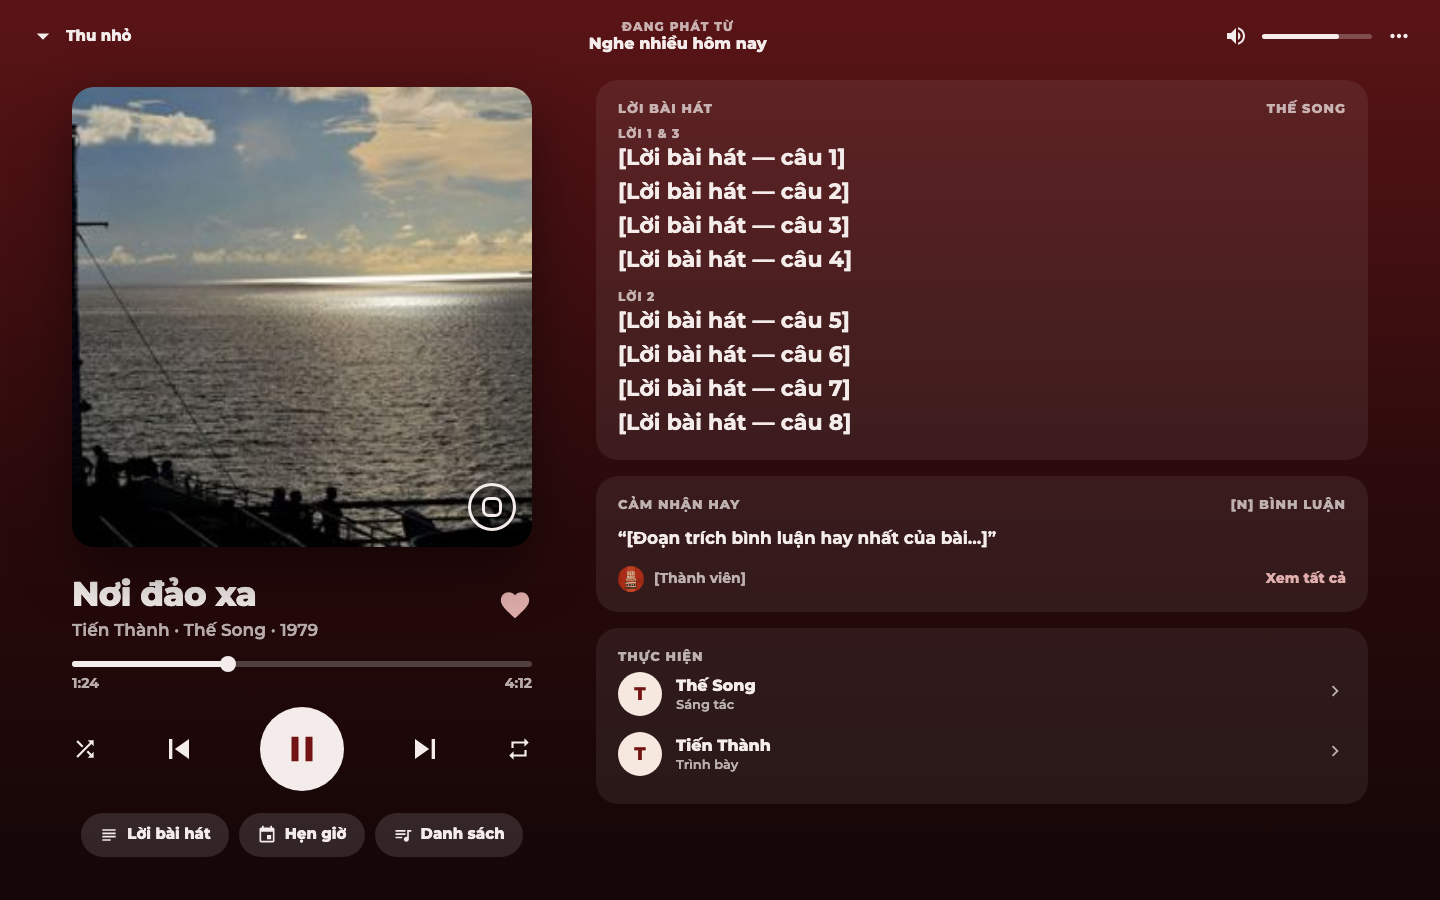
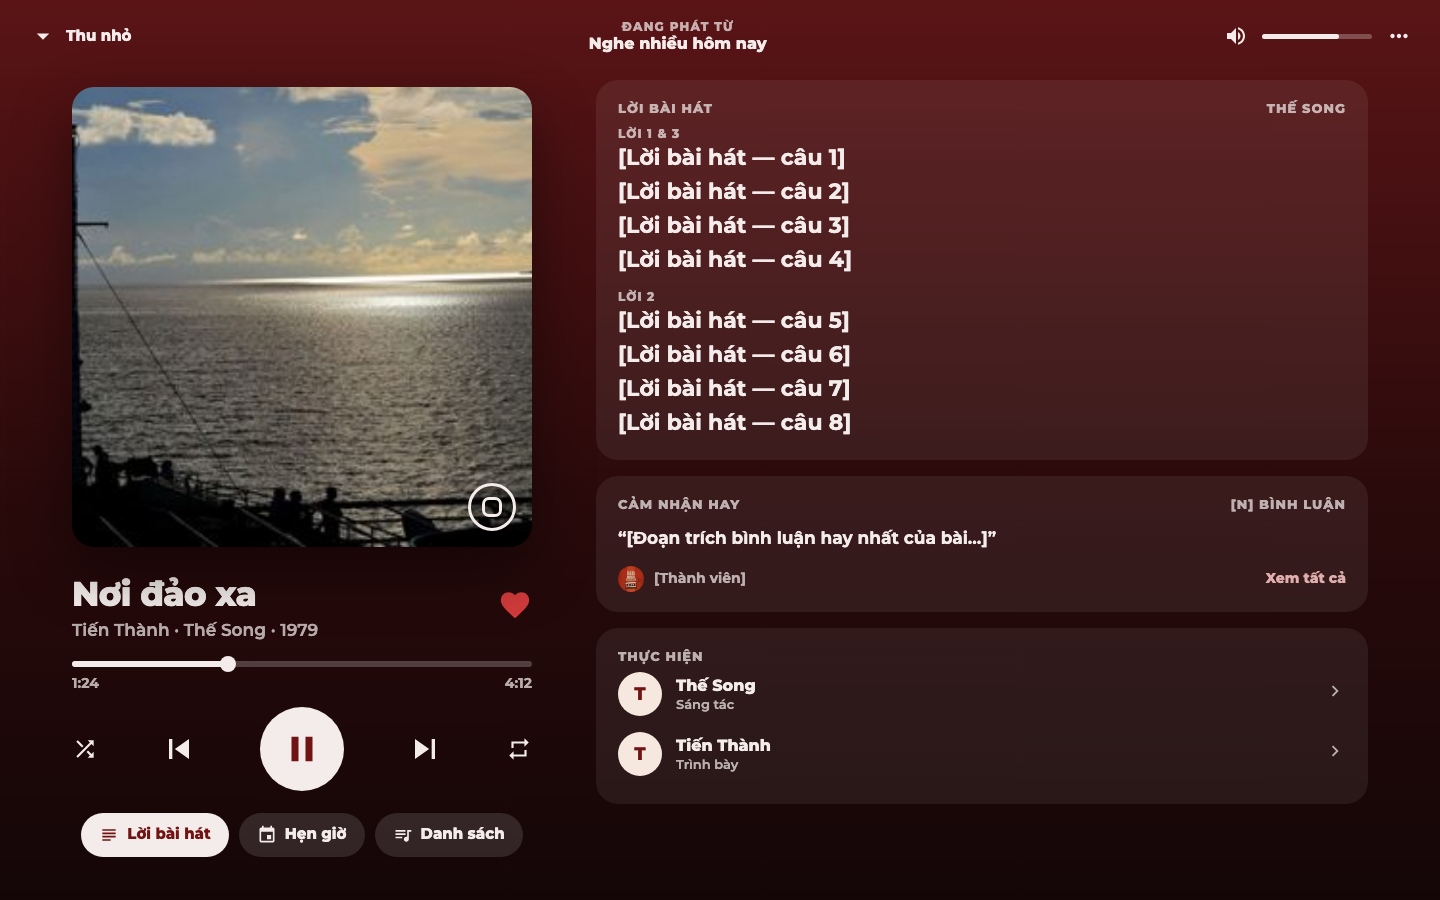
design(canvas): trình phát toàn màn desktop — Lời tắt (mặc định) / Lời bật

Changed region(s): [[0.0312, 0.9022, 0.1562, 0.9644], [0.3438, 0.6533, 0.375, 0.6844]]

diff --git a/design/canvas/project/Desktop_DangPhat.dc.html b/design/canvas/project/Desktop_DangPhat.dc.html
@@ -2,7 +2,7 @@
 <html lang="vi">
 <head>
 <meta charset="utf-8">
-<title>Desktop · Đang phát toàn màn (theo trình phát mobile)</title>
+<title>Desktop · Đang phát toàn màn — Lời bật</title>
 <script src="./support.js"></script>
 </head>
 <body>
@@ -11,7 +11,7 @@
 <link href="https://fonts.googleapis.com/css2?family=Montserrat:wght@500;600;700;800&amp;display=swap" rel="stylesheet">
 <style>body{margin:0}a{color:#8E1F1F;text-decoration:none}</style>
 </helmet>
-<!-- Đang phát toàn màn theo trình phát mobile -->
+<!-- Đang phát toàn màn — LỜI BẬT: bấm "Lời bài hát" (nút sáng = đang bật) → cột phải hiện Lời · Cảm nhận hay · Thực hiện. Bấm lần nữa → về bản Lời tắt (mặc định) -->
 <div style="width: 1440px; height: 900px; background: #0E0A0A; font-family: Montserrat, sans-serif; line-height: 1.25; color: #161112; display: flex; flex-direction: column; overflow: hidden; position: relative">
 <svg width="0" height="0" aria-hidden="true" style="position: absolute"><filter id="brandTint" color-interpolation-filters="sRGB"><feColorMatrix type="matrix" values="0.1667 0.5609 0.0566 0 0.1804  0.1868 0.6283 0.0634 0 0.0314  0.1767 0.5946 0.0600 0 0.0392  0 0 0 1 0"></feColorMatrix></filter></svg>
 <!-- Đồng bộ trình phát mobile (board "Trình phát"): nền gradient đỏ rượu, ảnh vuông có huy hiệu cassette, tên + tim, dòng "nghệ sĩ · nhạc sĩ · năm", thanh thời gian, cụm điều khiển nút phát tròn trắng, 3 nút chữ Lời bài hát · Hẹn giờ · Danh sách. Desktop: các thẻ (Lời · Cảm nhận hay · Thực hiện) nằm cột phải, cuộn riêng, thay vì dưới màn. Bỏ "đĩa than" -->
@@ -20,11 +20,11 @@
 <div style="position: relative; flex: 1; min-height: 0; display: flex; gap: 64px; padding: 8px 72px 36px">
 <div style="width: 460px; flex-shrink: 0; display: flex; flex-direction: column; justify-content: center">
 <span style="position: relative; display: block"><img src="/_blob/15d021a625e44f0e9ff37aae395a5ec2" alt="" style="width: 460px; height: 460px; border-radius: 22px; object-fit: cover; display: block; box-shadow: 0 24px 60px rgba(0,0,0,0.45)"><span style="position: absolute; right: 16px; bottom: 16px; width: 48px; height: 48px; border-radius: 24px; background: rgba(0,0,0,0.35); border: 3px solid #F3ECEA; box-sizing: border-box; display: flex; align-items: center; justify-content: center"><span style="width: 14px; height: 14px; border-radius: 7px; border: 3px solid #F3ECEA"></span></span></span>
-<div style="margin-top: 26px; display: flex; align-items: center"><div style="flex: 1"><div style="font-size: 34px; font-weight: 800; letter-spacing: -0.6px; color: #F3ECEA">Nơi đảo xa</div><div style="margin-top: 4px; font-size: 17px; font-weight: 600; color: rgba(243,236,234,0.72)">Tiến Thành · Thế Song · 1979</div></div><span style="color: #E0AEAC"><svg width="34" height="34" viewBox="0 0 24 24" fill="currentColor" aria-hidden="true" style="flex-shrink: 0"><path d="M12 21.35l-1.45-1.32C5.4 15.36 2 12.28 2 8.5 2 5.42 4.42 3 7.5 3c1.74 0 3.41.81 4.5 2.09C13.09 3.81 14.76 3 16.5 3 19.58 3 22 5.42 22 8.5c0 3.78-3.4 6.86-8.55 11.54L12 21.35z"></path></svg></span></div>
+<div style="margin-top: 26px; display: flex; align-items: center"><div style="flex: 1"><div style="font-size: 34px; font-weight: 800; letter-spacing: -0.6px; color: #F3ECEA">Nơi đảo xa</div><div style="margin-top: 4px; font-size: 17px; font-weight: 600; color: rgba(243,236,234,0.72)">Tiến Thành · Thế Song · 1979</div></div><span style="color: #D23B3B"><svg width="34" height="34" viewBox="0 0 24 24" fill="currentColor" aria-hidden="true" style="flex-shrink: 0"><path d="M12 21.35l-1.45-1.32C5.4 15.36 2 12.28 2 8.5 2 5.42 4.42 3 7.5 3c1.74 0 3.41.81 4.5 2.09C13.09 3.81 14.76 3 16.5 3 19.58 3 22 5.42 22 8.5c0 3.78-3.4 6.86-8.55 11.54L12 21.35z"></path></svg></span></div>
 <div style="margin-top: 20px; height: 6px; border-radius: 3px; background: rgba(255,255,255,0.22); position: relative"><span style="position: absolute; left: 0; top: 0; bottom: 0; width: 34%; border-radius: 3px; background: #F3ECEA"></span><span style="position: absolute; left: calc(34% - 8px); top: -5px; width: 16px; height: 16px; border-radius: 8px; background: #F3ECEA"></span></div>
 <div style="margin-top: 8px; display: flex; justify-content: space-between; font-size: 14px; font-weight: 700; color: rgba(243,236,234,0.72)"><span>1:24</span><span>4:12</span></div>
 <div style="margin-top: 14px; display: flex; align-items: center; justify-content: space-between; color: #F3ECEA"><svg width="26" height="26" viewBox="0 0 24 24" fill="currentColor" aria-hidden="true" style="flex-shrink: 0"><path d="M10.59 9.17L5.41 4 4 5.41l5.17 5.17 1.42-1.41zM14.5 4l2.04 2.04L4 18.59 5.41 20 17.96 7.46 20 9.5V4h-5.5zm.33 9.41l-1.41 1.41 3.13 3.13L14.5 20H20v-5.5l-2.04 2.04-3.13-3.13z"></path></svg><svg width="40" height="40" viewBox="0 0 24 24" fill="currentColor" aria-hidden="true" style="flex-shrink: 0"><path d="M6 6h2v12H6zm3.5 6l8.5 6V6z"></path></svg><span style="width: 84px; height: 84px; border-radius: 42px; background: #F3ECEA; display: flex; align-items: center; justify-content: center"><svg width="42" height="42" viewBox="0 0 24 24" fill="#711313" aria-hidden="true" style="flex-shrink: 0"><path d="M6 19h4V5H6v14zm8-14v14h4V5h-4z"></path></svg></span><svg width="40" height="40" viewBox="0 0 24 24" fill="currentColor" aria-hidden="true" style="flex-shrink: 0"><path d="M6 18l8.5-6L6 6v12zM16 6v12h2V6h-2z"></path></svg><svg width="26" height="26" viewBox="0 0 24 24" fill="currentColor" aria-hidden="true" style="flex-shrink: 0"><path d="M7 7h10v3l4-4-4-4v3H5v6h2V7zm10 10H7v-3l-4 4 4 4v-3h12v-6h-2v4z"></path></svg></div>
-<div style="margin-top: 22px; display: flex; justify-content: center; gap: 10px"><span style="height: 44px; padding: 0 18px; border-radius: 22px; background: rgba(255,255,255,0.12); color: #F3ECEA; display: inline-flex; align-items: center; gap: 8px; font-size: 15px; font-weight: 800"><svg width="20" height="20" viewBox="0 0 24 24" fill="currentColor" aria-hidden="true" style="flex-shrink: 0"><path d="M14 17H4v2h10v-2zm6-8H4v2h16V9zM4 15h16v-2H4v2zM4 5v2h16V5H4z"></path></svg>Lời bài hát</span><span style="height: 44px; padding: 0 18px; border-radius: 22px; background: rgba(255,255,255,0.12); color: #F3ECEA; display: inline-flex; align-items: center; gap: 8px; font-size: 15px; font-weight: 800"><svg width="20" height="20" viewBox="0 0 24 24" fill="currentColor" aria-hidden="true" style="flex-shrink: 0"><path d="M17 12h-5v5h5v-5zM16 1v2H8V1H6v2H5c-1.11 0-1.99.9-1.99 2L3 19c0 1.1.89 2 2 2h14c1.1 0 2-.9 2-2V5c0-1.1-.9-2-2-2h-1V1h-2zm3 18H5V8h14v11z"></path></svg>Hẹn giờ</span><span style="height: 44px; padding: 0 18px; border-radius: 22px; background: rgba(255,255,255,0.12); color: #F3ECEA; display: inline-flex; align-items: center; gap: 8px; font-size: 15px; font-weight: 800"><svg width="20" height="20" viewBox="0 0 24 24" fill="currentColor" aria-hidden="true" style="flex-shrink: 0"><path d="M15 6H3v2h12V6zm0 4H3v2h12v-2zM3 16h8v-2H3v2zM17 6v8.18c-.31-.11-.65-.18-1-.18-1.66 0-3 1.34-3 3s1.34 3 3 3 3-1.34 3-3V8h3V6h-5z"></path></svg>Danh sách</span></div></div>
+<div style="margin-top: 22px; display: flex; justify-content: center; gap: 10px"><span style="height: 44px; padding: 0 18px; border-radius: 22px; background: #F3ECEA; color: #711313; display: inline-flex; align-items: center; gap: 8px; font-size: 15px; font-weight: 800"><svg width="20" height="20" viewBox="0 0 24 24" fill="currentColor" aria-hidden="true" style="flex-shrink: 0"><path d="M14 17H4v2h10v-2zm6-8H4v2h16V9zM4 15h16v-2H4v2zM4 5v2h16V5H4z"></path></svg>Lời bài hát</span><span style="height: 44px; padding: 0 18px; border-radius: 22px; background: rgba(255,255,255,0.12); color: #F3ECEA; display: inline-flex; align-items: center; gap: 8px; font-size: 15px; font-weight: 800"><svg width="20" height="20" viewBox="0 0 24 24" fill="currentColor" aria-hidden="true" style="flex-shrink: 0"><path d="M17 12h-5v5h5v-5zM16 1v2H8V1H6v2H5c-1.11 0-1.99.9-1.99 2L3 19c0 1.1.89 2 2 2h14c1.1 0 2-.9 2-2V5c0-1.1-.9-2-2-2h-1V1h-2zm3 18H5V8h14v11z"></path></svg>Hẹn giờ</span><span style="height: 44px; padding: 0 18px; border-radius: 22px; background: rgba(255,255,255,0.12); color: #F3ECEA; display: inline-flex; align-items: center; gap: 8px; font-size: 15px; font-weight: 800"><svg width="20" height="20" viewBox="0 0 24 24" fill="currentColor" aria-hidden="true" style="flex-shrink: 0"><path d="M15 6H3v2h12V6zm0 4H3v2h12v-2zM3 16h8v-2H3v2zM17 6v8.18c-.31-.11-.65-.18-1-.18-1.66 0-3 1.34-3 3s1.34 3 3 3 3-1.34 3-3V8h3V6h-5z"></path></svg>Danh sách</span></div></div>
 <div style="flex: 1; min-width: 0; display: flex; flex-direction: column; gap: 16px; overflow: hidden">
 <div style="border-radius: 22px; background: rgba(255,255,255,0.07); padding: 20px 22px"><div style="display: flex; justify-content: space-between; font-size: 13px; font-weight: 800; letter-spacing: 1px; color: rgba(243,236,234,0.72)"><span>LỜI BÀI HÁT</span><span>THẾ SONG</span></div><div style="margin-top: 10px; font-size: 12px; font-weight: 800; letter-spacing: 1px; color: rgba(243,236,234,0.72)">LỜI 1 & 3</div><div style="font-size: 22px; line-height: 34px; font-weight: 700; color: #F3ECEA">[Lời bài hát — câu 1]</div><div style="font-size: 22px; line-height: 34px; font-weight: 700; color: #F3ECEA">[Lời bài hát — câu 2]</div><div style="font-size: 22px; line-height: 34px; font-weight: 700; color: #F3ECEA">[Lời bài hát — câu 3]</div><div style="font-size: 22px; line-height: 34px; font-weight: 700; color: #F3ECEA">[Lời bài hát — câu 4]</div><div style="margin-top: 12px; font-size: 12px; font-weight: 800; letter-spacing: 1px; color: rgba(243,236,234,0.72)">LỜI 2</div><div style="font-size: 22px; line-height: 34px; font-weight: 700; color: #F3ECEA">[Lời bài hát — câu 5]</div><div style="font-size: 22px; line-height: 34px; font-weight: 700; color: #F3ECEA">[Lời bài hát — câu 6]</div><div style="font-size: 22px; line-height: 34px; font-weight: 700; color: #F3ECEA">[Lời bài hát — câu 7]</div><div style="font-size: 22px; line-height: 34px; font-weight: 700; color: #F3ECEA">[Lời bài hát — câu 8]</div></div>
 <div style="border-radius: 22px; background: rgba(255,255,255,0.07); padding: 20px 22px"><div style="display: flex; justify-content: space-between; font-size: 13px; font-weight: 800; letter-spacing: 1px; color: rgba(243,236,234,0.72)"><span>CẢM NHẬN HAY</span><span>[N] BÌNH LUẬN</span></div><div style="margin-top: 12px; font-size: 17px; line-height: 27px; font-weight: 700; color: #F3ECEA">“[Đoạn trích bình luận hay nhất của bài…]”</div><div style="margin-top: 14px; display: flex; align-items: center; gap: 10px; font-size: 14px; font-weight: 700; color: rgba(243,236,234,0.72)"><img src="/_blob/82eaabf5353f0932631acc5c429f9aef" alt="" style="width: 26px; height: 26px; border-radius: 13px; object-fit: cover"><span style="flex: 1">[Thành viên]</span><span style="color: #E0AEAC; font-weight: 800">Xem tất cả</span></div></div>

diff --git a/design/canvas/project/Desktop_DangPhat_LoiTat.dc.html b/design/canvas/project/Desktop_DangPhat_LoiTat.dc.html
@@ -1,0 +1,37 @@
+<!doctype html>
+<html lang="vi">
+<head>
+<meta charset="utf-8">
+<title>Desktop · Đang phát toàn màn — Lời tắt (mặc định)</title>
+<script src="./support.js"></script>
+</head>
+<body>
+<x-dc>
+<helmet>
+<link href="https://fonts.googleapis.com/css2?family=Montserrat:wght@500;600;700;800&amp;display=swap" rel="stylesheet">
+<style>body{margin:0}a{color:#8E1F1F;text-decoration:none}</style>
+</helmet>
+<!-- Đang phát toàn màn — LỜI TẮT (mặc định khi mở): không cột phải; ảnh, tên, thanh thời gian và cụm điều khiển căn giữa, thanh thời gian chạy hết bề ngang (cách mép 120). Nút "Lời bài hát" mờ = đang tắt; bấm → bản Lời bật (cột phải như cũ) -->
+<div style="width: 1440px; height: 900px; background: #0E0A0A; font-family: Montserrat, sans-serif; line-height: 1.25; color: #161112; display: flex; flex-direction: column; overflow: hidden; position: relative">
+<svg width="0" height="0" aria-hidden="true" style="position: absolute"><filter id="brandTint" color-interpolation-filters="sRGB"><feColorMatrix type="matrix" values="0.1667 0.5609 0.0566 0 0.1804  0.1868 0.6283 0.0634 0 0.0314  0.1767 0.5946 0.0600 0 0.0392  0 0 0 1 0"></feColorMatrix></filter></svg>
+<!-- Đồng bộ trình phát mobile (board "Trình phát"): nền gradient đỏ rượu, ảnh vuông có huy hiệu cassette, tên + tim, dòng "nghệ sĩ · nhạc sĩ · năm", thanh thời gian, cụm điều khiển nút phát tròn trắng, 3 nút chữ Lời bài hát · Hẹn giờ · Danh sách. Desktop: các thẻ (Lời · Cảm nhận hay · Thực hiện) nằm cột phải, cuộn riêng, thay vì dưới màn. Bỏ "đĩa than" -->
+<div style="position: absolute; inset: 0; background: linear-gradient(180deg, #5A1416 0%, #2A0A0B 55%, #140607 100%)"></div>
+<div style="position: relative; height: 72px; padding: 0 28px; display: flex; align-items: center; color: #F3ECEA"><span style="display: flex; align-items: center; gap: 8px; font-size: 15px; font-weight: 800"><svg width="30" height="30" viewBox="0 0 24 24" fill="currentColor" aria-hidden="true" style="flex-shrink: 0"><path d="M7 10l5 5 5-5z"></path></svg>Thu nhỏ</span><span style="flex: 1; text-align: center; display: flex; flex-direction: column"><span style="font-size: 12px; font-weight: 800; letter-spacing: 1.2px; color: rgba(243,236,234,0.72)">ĐANG PHÁT TỪ</span><span style="font-size: 16px; font-weight: 800">Nghe nhiều hôm nay</span></span><span style="display: flex; align-items: center; gap: 14px"><svg width="24" height="24" viewBox="0 0 24 24" fill="currentColor" aria-hidden="true" style="flex-shrink: 0"><path d="M3 9v6h4l5 5V4L7 9H3zm13.5 3c0-1.77-1.02-3.29-2.5-4.03v8.05c1.48-.73 2.5-2.25 2.5-4.02zM14 3.23v2.06c2.89.86 5 3.54 5 6.71s-2.11 5.85-5 6.71v2.06c4.01-.91 7-4.49 7-8.77s-2.99-7.86-7-8.77z"></path></svg><span style="width: 110px; height: 5px; border-radius: 3px; background: rgba(255,255,255,0.25); position: relative"><span style="position: absolute; left: 0; top: 0; bottom: 0; width: 70%; border-radius: 3px; background: #F3ECEA"></span></span><svg width="26" height="26" viewBox="0 0 24 24" fill="currentColor" aria-hidden="true" style="flex-shrink: 0"><path d="M6 10c-1.1 0-2 .9-2 2s.9 2 2 2 2-.9 2-2-.9-2-2-2zm12 0c-1.1 0-2 .9-2 2s.9 2 2 2 2-.9 2-2-.9-2-2-2zm-6 0c-1.1 0-2 .9-2 2s.9 2 2 2 2-.9 2-2-.9-2-2-2z"></path></svg></span></div>
+<div style="position: relative; flex: 1; min-height: 0; display: flex; flex-direction: column; align-items: center; justify-content: center; padding: 0 120px 36px">
+<span style="width: 420px"><span style="position: relative; display: block"><img src="/_blob/15d021a625e44f0e9ff37aae395a5ec2" alt="" style="width: 420px; height: 420px; border-radius: 22px; object-fit: cover; display: block; box-shadow: 0 24px 60px rgba(0,0,0,0.45)"><span style="position: absolute; right: 16px; bottom: 16px; width: 48px; height: 48px; border-radius: 24px; background: rgba(0,0,0,0.35); border: 3px solid #F3ECEA; box-sizing: border-box; display: flex; align-items: center; justify-content: center"><span style="width: 14px; height: 14px; border-radius: 7px; border: 3px solid #F3ECEA"></span></span></span></span>
+<div style="margin-top: 24px; width: 100%; display: flex; align-items: center; gap: 16px"><span style="width: 34px"></span><div style="flex: 1; text-align: center"><div style="font-size: 34px; font-weight: 800; letter-spacing: -0.6px; color: #F3ECEA">Nơi đảo xa</div><div style="margin-top: 4px; font-size: 17px; font-weight: 600; color: rgba(243,236,234,0.72)">Tiến Thành · Thế Song · 1979</div></div><span style="color: #D23B3B"><svg width="34" height="34" viewBox="0 0 24 24" fill="currentColor" aria-hidden="true" style="flex-shrink: 0"><path d="M12 21.35l-1.45-1.32C5.4 15.36 2 12.28 2 8.5 2 5.42 4.42 3 7.5 3c1.74 0 3.41.81 4.5 2.09C13.09 3.81 14.76 3 16.5 3 19.58 3 22 5.42 22 8.5c0 3.78-3.4 6.86-8.55 11.54L12 21.35z"></path></svg></span></div>
+<div style="width: 100%"><div style="margin-top: 20px; height: 6px; border-radius: 3px; background: rgba(255,255,255,0.22); position: relative"><span style="position: absolute; left: 0; top: 0; bottom: 0; width: 34%; border-radius: 3px; background: #F3ECEA"></span><span style="position: absolute; left: calc(34% - 8px); top: -5px; width: 16px; height: 16px; border-radius: 8px; background: #F3ECEA"></span></div><div style="margin-top: 8px; display: flex; justify-content: space-between; font-size: 14px; font-weight: 700; color: rgba(243,236,234,0.72)"><span>1:24</span><span>4:12</span></div></div>
+<div style="width: 100%"><div style="margin-top: 14px; display: flex; align-items: center; justify-content: center; gap: 56px; color: #F3ECEA"><svg width="26" height="26" viewBox="0 0 24 24" fill="currentColor" aria-hidden="true" style="flex-shrink: 0"><path d="M10.59 9.17L5.41 4 4 5.41l5.17 5.17 1.42-1.41zM14.5 4l2.04 2.04L4 18.59 5.41 20 17.96 7.46 20 9.5V4h-5.5zm.33 9.41l-1.41 1.41 3.13 3.13L14.5 20H20v-5.5l-2.04 2.04-3.13-3.13z"></path></svg><svg width="40" height="40" viewBox="0 0 24 24" fill="currentColor" aria-hidden="true" style="flex-shrink: 0"><path d="M6 6h2v12H6zm3.5 6l8.5 6V6z"></path></svg><span style="width: 84px; height: 84px; border-radius: 42px; background: #F3ECEA; display: flex; align-items: center; justify-content: center"><svg width="42" height="42" viewBox="0 0 24 24" fill="#711313" aria-hidden="true" style="flex-shrink: 0"><path d="M6 19h4V5H6v14zm8-14v14h4V5h-4z"></path></svg></span><svg width="40" height="40" viewBox="0 0 24 24" fill="currentColor" aria-hidden="true" style="flex-shrink: 0"><path d="M6 18l8.5-6L6 6v12zM16 6v12h2V6h-2z"></path></svg><svg width="26" height="26" viewBox="0 0 24 24" fill="currentColor" aria-hidden="true" style="flex-shrink: 0"><path d="M7 7h10v3l4-4-4-4v3H5v6h2V7zm10 10H7v-3l-4 4 4 4v-3h12v-6h-2v4z"></path></svg></div></div>
+<div style="margin-top: 22px; display: flex; justify-content: center; gap: 10px"><span style="height: 44px; padding: 0 18px; border-radius: 22px; background: rgba(255,255,255,0.12); color: #F3ECEA; display: inline-flex; align-items: center; gap: 8px; font-size: 15px; font-weight: 800"><svg width="20" height="20" viewBox="0 0 24 24" fill="currentColor" aria-hidden="true" style="flex-shrink: 0"><path d="M14 17H4v2h10v-2zm6-8H4v2h16V9zM4 15h16v-2H4v2zM4 5v2h16V5H4z"></path></svg>Lời bài hát</span><span style="height: 44px; padding: 0 18px; border-radius: 22px; background: rgba(255,255,255,0.12); color: #F3ECEA; display: inline-flex; align-items: center; gap: 8px; font-size: 15px; font-weight: 800"><svg width="20" height="20" viewBox="0 0 24 24" fill="currentColor" aria-hidden="true" style="flex-shrink: 0"><path d="M17 12h-5v5h5v-5zM16 1v2H8V1H6v2H5c-1.11 0-1.99.9-1.99 2L3 19c0 1.1.89 2 2 2h14c1.1 0 2-.9 2-2V5c0-1.1-.9-2-2-2h-1V1h-2zm3 18H5V8h14v11z"></path></svg>Hẹn giờ</span><span style="height: 44px; padding: 0 18px; border-radius: 22px; background: rgba(255,255,255,0.12); color: #F3ECEA; display: inline-flex; align-items: center; gap: 8px; font-size: 15px; font-weight: 800"><svg width="20" height="20" viewBox="0 0 24 24" fill="currentColor" aria-hidden="true" style="flex-shrink: 0"><path d="M15 6H3v2h12V6zm0 4H3v2h12v-2zM3 16h8v-2H3v2zM17 6v8.18c-.31-.11-.65-.18-1-.18-1.66 0-3 1.34-3 3s1.34 3 3 3 3-1.34 3-3V8h3V6h-5z"></path></svg>Danh sách</span></div>
+</div>
+</div>
+</x-dc>
+<script type="text/x-dc" data-dc-script data-props='{"$preview":{"width":1440,"height":900}}'>
+class Component extends DCLogic {
+renderVals() {
+return {};
+}
+}
+</script>
+</body>
+</html>
